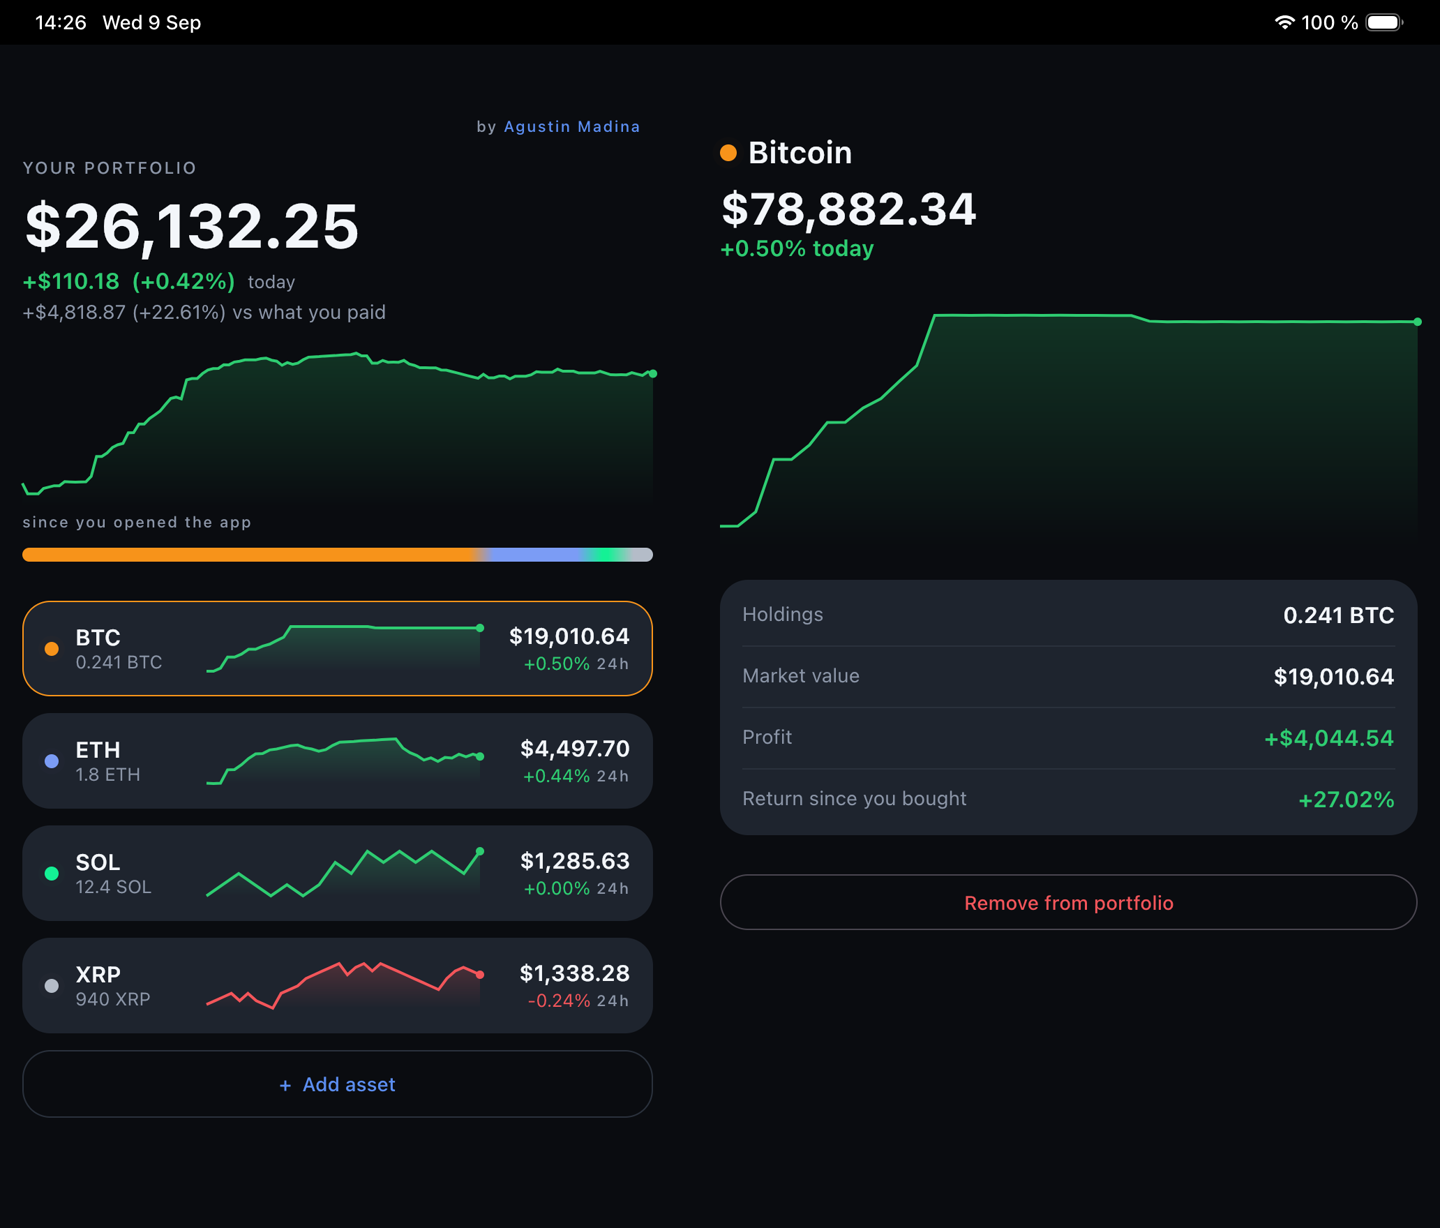
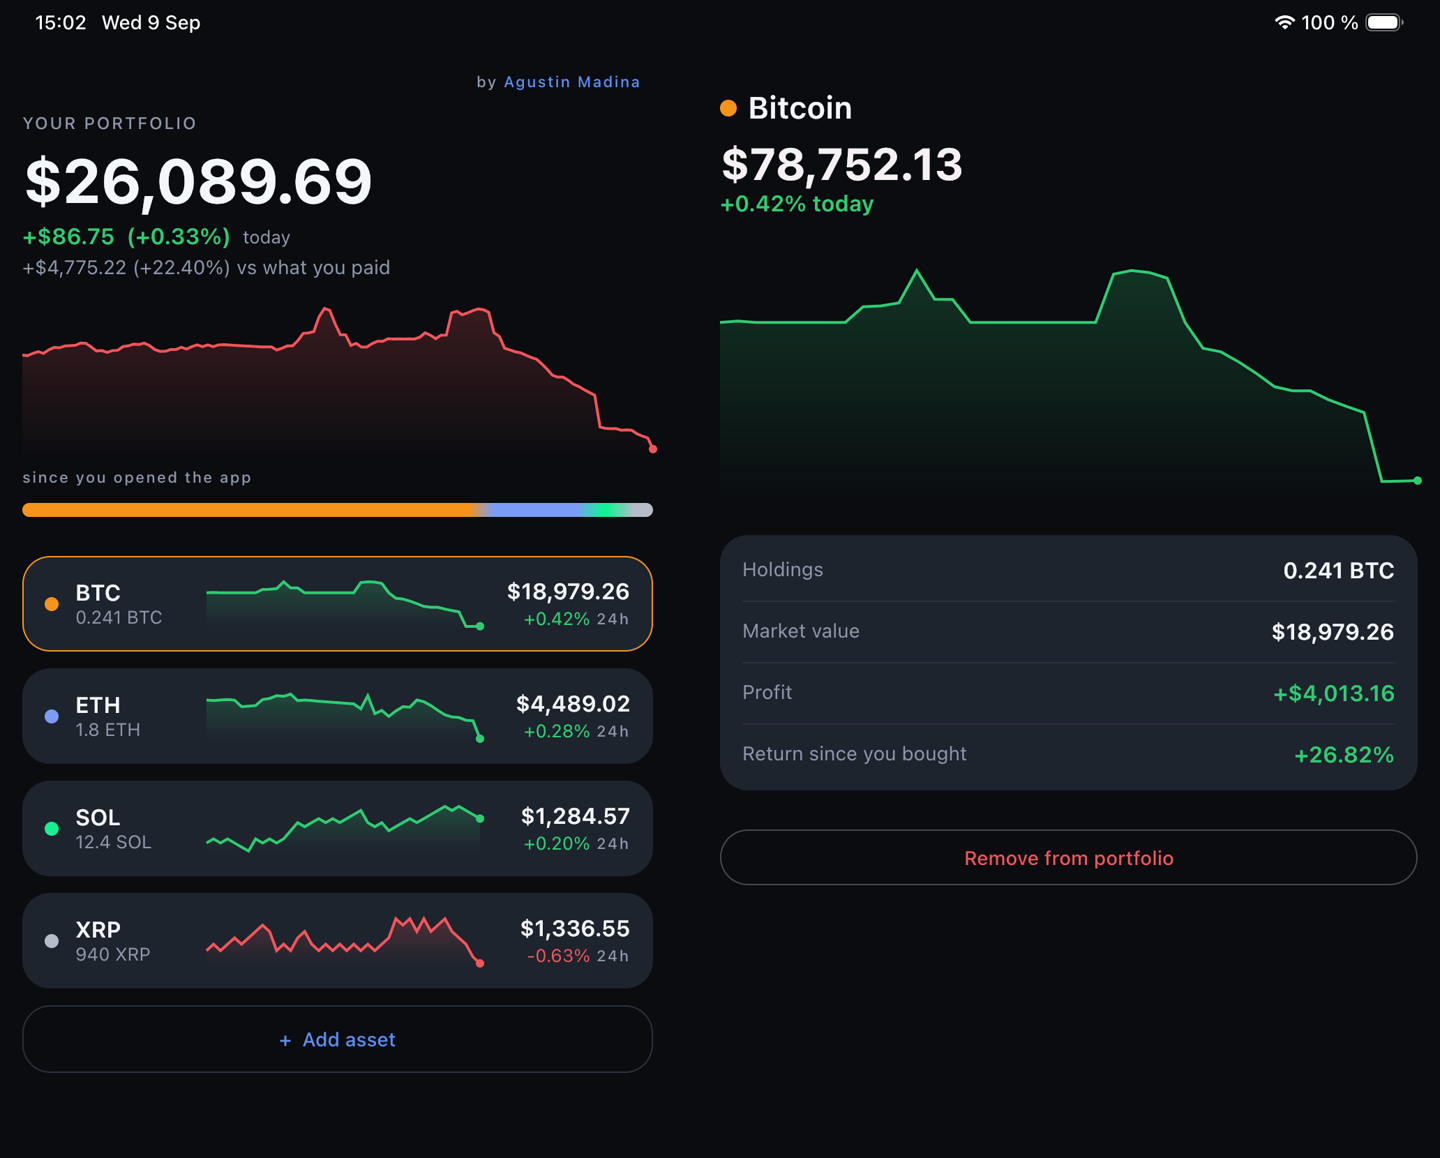
docs: replace the hero clip with a guided tour, and refresh the stills
The old clip showed the home screen ticking and nothing else, so a
reader had to take the rest of the README on trust. This one walks the
whole app: scrubbing the session chart, opening a position, and
searching the live Coinbase catalogue.

The stills are recaptured on the safe-area fix, which is what was
pushing the iOS header a notch down and cutting off Add asset, and the
iPad shot now has a position open so the second pane argues for itself.

diff --git a/README.md b/README.md
@@ -14,12 +14,13 @@ Compose UI that runs on the phones, compiled to WebAssembly. Prices are live, st
 Coinbase over a WebSocket.
 
 <p align="center">
-  <img src="docs/screenshots/live-prices.gif" width="280" alt="Live prices ticking in Tickr">
+  <img src="docs/screenshots/tour.gif" width="290" alt="A tour of Tickr: live prices, a scrubbable chart, the detail screen and the asset catalogue">
 </p>
 
 <p align="center">
-  <em>Not a mockup: those are real Coinbase quotes arriving over a WebSocket, with the totals
-  counting to each new value.</em>
+  <em>Prices ticking in, dragging along the chart to read any moment in the session, opening a
+  position, and searching the live Coinbase catalogue. Nothing here is a mockup: every number
+  arrives over a WebSocket while the recording runs.</em>
 </p>
 
 ### The same screen, built from the same code
@@ -50,8 +51,9 @@ Coinbase over a WebSocket.
 </p>
 
 <p align="center">
-  <em>Past 840dp the same state lays itself out as two panes, on a tablet or in a browser window.
-  One destination in the ViewModel drives both, so there is no second navigation graph.</em>
+  <em>The same app on an iPad. Given a wide enough screen, a tablet or a maximised browser window,
+  the list and the detail sit side by side instead of one covering the other. It is the same code
+  and the same state deciding, so there is no separate tablet layout to keep in sync.</em>
 </p>
 
 ---
